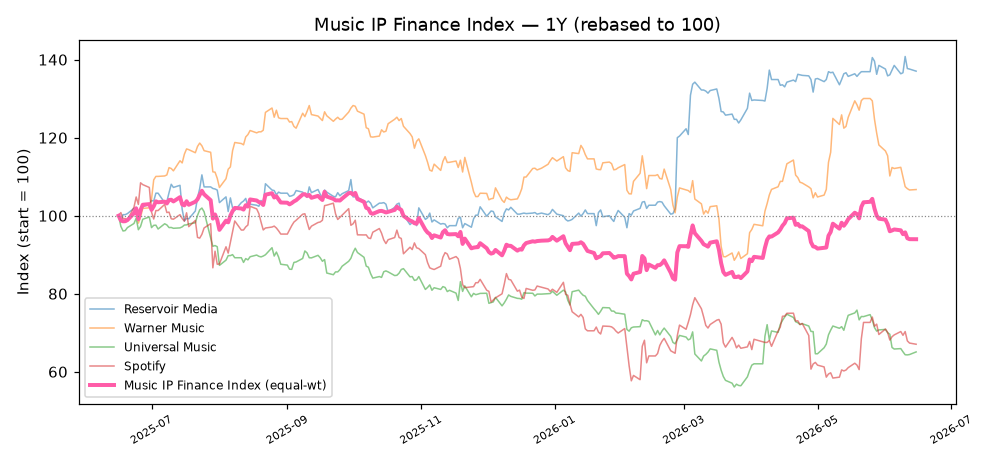
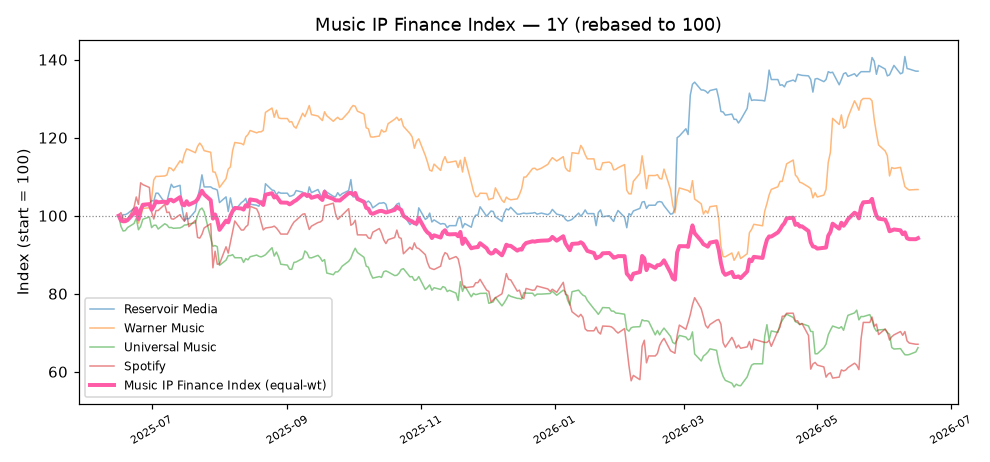
feat: 加上股市/研究雷達兩分頁導覽；移除空的新聞熱度圖與WIPO靜態卡，保留版權指數

diff --git a/docs/index.html b/docs/index.html
@@ -8,6 +8,12 @@
   * { box-sizing:border-box; }
   body { font-family:-apple-system,"PingFang TC","Microsoft JhengHei",sans-serif;
          margin:0; background:#0f1115; color:#e6e6e6; }
+  .topnav { display:flex; gap:6px; background:#0b0d12; padding:8px 16px;
+            border-bottom:1px solid #262b36; position:sticky; top:0; z-index:10; }
+  .topnav a { color:#9aa4b2; text-decoration:none; font-size:14px; font-weight:600;
+              padding:7px 16px; border-radius:8px; }
+  .topnav a:hover { background:#161922; color:#e6e6e6; }
+  .topnav a.active { background:#1f2e3a; color:#7fb5ff; }
   header { padding:24px 20px; background:#161922; border-bottom:1px solid #262b36; }
   header h1 { margin:0; font-size:22px; }
   header p { margin:6px 0 0; color:#9aa4b2; font-size:13px; }
@@ -70,9 +76,13 @@
 </style>
 </head>
 <body>
+<nav class="topnav">
+  <a href="https://elainechi-art.github.io/taiwan-stock-dashboard/">📈 股市儀表板</a>
+  <a class="active" href="https://elainechi-art.github.io/research-radar/">📡 研究雷達</a>
+</nav>
 <header>
   <h1>📡 研究雷達 · 台灣法律 / 智財 / 區塊鏈 / AI</h1>
-  <p>資料日期：2026-06-16　·　產生時間：2026-06-16 15:08　·　每日自動更新　·　🆕 = 近 7 天新資料</p>
+  <p>資料日期：2026-06-16　·　產生時間：2026-06-16 15:17　·　每日自動更新　·　🆕 = 近 7 天新資料</p>
 </header>
 <div class="wrap">
 
@@ -87,7 +97,7 @@
           <h2><span class="tag tw">台灣</span>台灣智財：著作權／商標／專利 <span class="desc">三大領域各自蒐集（判決・侵權・修法）</span></h2>
           
           
-          <div class="cols"><div class="col"><h3>© 著作權</h3><ul class="feed"><li><a href="https://news.google.com/rss/articles/CBMiU0FVX3lxTFBhTldwZjFkWHZDbFd1clRScWY5RHFYWC11eWRTZHhHTFJlUHhYR2xybnpCOXFiZzRmcnA3QkplSTd1dVJvNFVhNm14MWNlUFExNVNz?oc=5" target="_blank" rel="noopener">日男發布劇情解說影片涉侵權 遭法院判刑一年半 - 力報</a><div class="m"><span class="new">🆕 NEW</span><span class="date">2026-06-16</span><span class="src">力報</span></div></li><li><a href="https://news.google.com/rss/articles/CBMiSEFVX3lxTE5VU0Fjbkg3WVk0SFg1SWFSeFlaSkhBMGZXMFhobmdycm93eVdGTDJ5RE5SN2N4TmNtWVdsOWV1ZlcyeWhFRjJSNA?oc=5" target="_blank" rel="noopener">【北美智權報406期】Hailuo AI侵害迪士尼原創角色著作權？2026年Disney v. MiniMax案初步裁定| 2026 年 6 月 16 日 - 北美智權</a><div class="m"><span class="new">🆕 NEW</span><span class="date">2026-06-15</span><span class="src">北美智權</span></div></li><li><a href="https://news.google.com/rss/articles/CBMiS0FVX3lxTFBuS3I2UFFvb0lkR05nU1p6TTdIUTZQZkRNZ1FXdl9uTU1kb1kxRVo3WDdmOEZWUnBYVzNRb1NDaVhmYTAxem9WTnVVNA?oc=5" target="_blank" rel="noopener">人工智慧面臨「人工愚蠢」挑戰 版權侵權、假訊息、誤判層出不窮 - 樂聯網</a><div class="m"><span class="date">2026-06-05</span><span class="src">樂聯網</span></div></li><li><a href="https://news.google.com/rss/articles/CBMiakFVX3lxTE16MmNCMHpJQ0lja2pIeVVqd3ptM3EzeElRMXpicloxOE5LSU9jdzlvcVVRNlNxWTZTb0VYZTFPaXVXLXNpeTkwQ0RLQTNZejkwWjFKNmYxbVRrOHdjeEpQVDVRbW1od0N3ZlE?oc=5" target="_blank" rel="noopener">專利情報： 從我國唯一AI侵權之中央通訊社案- - 著作權法刑責之再檢討 - 科技產業資訊室</a><div class="m"><span class="date">2026-06-04</span><span class="src">科技產業資訊室</span></div></li><li><a href="https://news.google.com/rss/articles/CBMiowFBVV95cUxOcEJuemM2TWg4a3Uyb3dYYk55djRyR0t6MWE2bUs1NGpKQmZ0UzQ5YmRnMm40YmY2bElhcEVfSHgwOFE0S0J3eF93amhvSjRvQmZIN2g5d2VobXR5SmxCZzlXVFdja3lIUmVTSnNjM1JWMERzN3VBSm9xdWR1bWZIYWhGeEZWd0JBZV93YWR4WVp1TFZleE5qVkdxVmlUNWQ3YTln?oc=5" target="_blank" rel="noopener">CNN 控告 Perplexity 侵害著作權：1.7 萬篇報導逐字複製、繞過付費牆| 動區動趨-最具影響力的區塊鏈新聞媒體 - 動區動趨</a><div class="m"><span class="date">2026-05-29</span><span class="src">動區動趨</span></div></li><li><a href="https://news.google.com/rss/articles/CBMiS0FVX3lxTE5TNXl3ZjEyQWJJc3phZFZjNnRrbll5SmdBQjlfdE9iZ19hRmhHWVp3dElTYk1SMjdIQ1RxZlpVaE52OFloTnkzNWVrRQ?oc=5" target="_blank" rel="noopener">教會遭控侵權 單張圖片索賠上萬元 - 台灣教會公報新聞網</a><div class="m"><span class="date">2026-02-25</span><span class="src">台灣教會公報新聞網</span></div></li></ul></div><div class="col"><h3>™ 商標</h3><ul class="feed"><li><a href="https://news.google.com/rss/articles/CBMimwFBVV95cUxQMkkzNHRaak00MkhKaHpKQ1kxQW1aYTJ1MkN5T1VhdEJQcnJLMkpob0pkdXNZT1hCbWcwcjJ6WldaZkFqaERZMnMyVG5UWEUtQ0w5Q19UV0pjdm9fTWhyVjZKRHQxY3FkbWlCenp4UHQ3amNnTlEwX3F6b1VFOVRhZm14UnhLQ3ZuOGxCMDhmUWgtNDUzUFVHWGpUYw?oc=5" target="_blank" rel="noopener">真金也可能侵權 刑事局查獲725件仿冒名牌金飾 - 新住民全球新聞網</a><div class="m"><span class="new">🆕 NEW</span><span class="date">2026-06-16</span><span class="src">新住民全球新聞網</span></div></li><li><a href="https://news.google.com/rss/articles/CBMifkFVX3lxTE9xdE43VGNCc19PR21ncEJNc2V5NXJGRC1mNkpmMmxmWHB5VzdkNmxFUktfcmYxMWNOU2l5N3hHejhXYnh4dUNYNkl2ZkxWQjlSZ3RmREhwdUQwcnBlcHR1cVdYSzdFMzZoSk5JVmUwU2tCeE5DSFIxaTBFSEJZUdIBZ0FVX3lxTE9YUVhSTjM2bEplUFdnc0NJaE9tRk5qMFNMRWhKTDdrYXp0QVJ2WW1mQlRIMUtDbF9VUnRVeDRFWUpXbEpxYTVDay1BQmViNXpHWmFJM1VEVE5uRWR6YzhVdUVQQ0phNVE?oc=5" target="_blank" rel="noopener">商標霸凌？「遇見小麵」告小店侵權 反遭抵制、股價暴跌 - 世界新聞網</a><div class="m"><span class="new">🆕 NEW</span><span class="date">2026-06-16</span><span class="src">世界新聞網</span></div></li><li><a href="https://news.google.com/rss/articles/CBMiX0FVX3lxTE9JbldNSVZkWkRXM3NNYVl1Qjk5MjhOMnY5dXlCRUF5eHU0N182OWh4V2lpRng0cDV1RTYwNHZGa3VVTnM1eGNQUDFIS3hLbUJ1WjVPZzA5WkFBdzkyUk1j?oc=5" target="_blank" rel="noopener">陸連鎖品牌「遇見小面」訴夫妻店商標侵權 引爭議 - 大紀元時報 香港</a><div class="m"><span class="new">🆕 NEW</span><span class="date">2026-06-16</span><span class="src">大紀元時報 香港</span></div></li><li><a href="https://news.google.com/rss/articles/CBMiygNBVV95cUxQdndIb3ZPdVV0cWNYUm9JOTZlUngyMEFFeFhrTmlnRWVzN0pEdWRDV3VORFNKcnVlVHdfbkhvSHVHUkdDQUIwRDJBbTZhUnBiQVhpS2c0VjJxWkpVZU9GWVNIbjJ0azVrbEZQS1NXTUl1RUJtSnNjeUJ6ZmJCcUJSTE5YTHl2dFkxQjRjcnpMLUxFQmtqYnBlRkRINk9wU2ZoeUc2UTJkcVh5MEhKdldvVGc1UENDSnZlY2tTa2VHQTZNbnROWEFkMWVBUC1udVRzUDJUdkZnTC1pUEhzWno0TDNxdVBETVVSZTQzRHZDbWhUQUlGWmxsYTRHM2VObDBzak9ZSDdVeUhTOG85VWJGanhRWS1ZTFQ2QjZRc0V2UEF3bkJTeGJMRzJMaXlldzJYa2V3X2h5RDhsczBXSXNEUHVYM0owdkVGbVh1bEVvTUhzN3Y4cG5ydm8wdVY5T2lHNzJibUhYQlQ0NU9SWTlteS1NcVliV1dVWU5TLW1hcFNIYVpLNFd1M2I1cEJsZU81Wlp1QUljTkFGc1d6X2NoYzh2bEszVkdlLWkxRk1nek0xR3RmOWJXdnpVenVYOF9lOEdyc29RYWRuUQ?oc=5" target="_blank" rel="noopener">小店｢渝見小麵｣老闆哭訴被指侵權遭索賠近萬 遇見小麵創始人道歉 - 香港01</a><div class="m"><span class="new">🆕 NEW</span><span class="date">2026-06-16</span><span class="src">香港01</span></div></li><li><a href="https://news.google.com/rss/articles/CBMiYEFVX3lxTFA5R2RJcUNJVnVVdEpITWM1dmdTdWx4MWJoZ3Ffb3QtQzNmN211dVJIdzRhakVQYl9lRnNUdWJTR0JmbVZKNGE4Q21ELWJMcnpRV1lqQ0RPWE1SNVpDc0lBWtIBYEFVX3lxTFA5R2RJcUNJVnVVdEpITWM1dmdTdWx4MWJoZ3Ffb3QtQzNmN211dVJIdzRhakVQYl9lRnNUdWJTR0JmbVZKNGE4Q21ELWJMcnpRV1lqQ0RPWE1SNVpDc0lBWg?oc=5" target="_blank" rel="noopener">商標搶先機／女星自創品牌撞名日本大廠 被迫改名重新出發 - 鏡週刊Mirror Media</a><div class="m"><span class="new">🆕 NEW</span><span class="date">2026-06-15</span><span class="src">鏡週刊Mirror Media</span></div></li><li><a href="https://news.google.com/rss/articles/CBMiXEFVX3lxTE9jS05CUDRGUTFCWFg0X1RjenliUVRoWGJaakIyQmIzOU5IMmhlSmNnVlhNVTJ3RERsR3ZUZVZnVnpLQXBmTG44QllGN3FfUHRIRjk0ci1xcVVGZmUx0gFcQVVfeXFMT2NLTkJQNEZRMUJYWDRfVGN6eWJRVGhYYlpqQjJCYjM5TkgyaGVKY2dWWE1VMndERGxHdlRlVmdWektBcGZMbjhCWUY3cV9QdEhGOTRyLXFxVUZmZTE?oc=5" target="_blank" rel="noopener">商標搶先機／獨家！直播天后開告撈金 闆妹靠註冊商標賺626萬 - 鏡新聞</a><div class="m"><span class="new">🆕 NEW</span><span class="date">2026-06-15</span><span class="src">鏡新聞</span></div></li></ul></div><div class="col"><h3>⚙ 專利</h3><ul class="feed"><li><a href="https://news.google.com/rss/articles/CBMiXEFVX3lxTE4zRXZ1RndYejl4RkY5MlhGT1huRzllOXVKV1FoYzZCZWFZQzhzZ0cwdzhkTkx4cDBMVlJ2cTFYcWhqRzc3YXhkbGtWUWVDelJVSXFfdTVQekIyRlQz?oc=5" target="_blank" rel="noopener">外媒揭台積電捲入專利侵權訴訟 官員坦言是遇到「專利蟑螂」 - 太報 TaiSounds</a><div class="m"><span class="new">🆕 NEW</span><span class="date">2026-06-16</span><span class="src">太報 TaiSounds</span></div></li><li><a href="https://news.google.com/rss/articles/CBMiXkFVX3lxTE03NEFSVW1iaE5xWFF1bWNmOEhRZXNxalYwWVdyZmYzX2VBUThRbHFqTG16ckdTNUlkeUt4TjBNQ0FUSzE2RXRNUkdmUmpmUjQ5bnluVUJ2RjNENXVPQnc?oc=5" target="_blank" rel="noopener">台積電涉侵權訴訟智慧局長：提告者研判為專利蟑螂| 產經 - 中央社 CNA</a><div class="m"><span class="new">🆕 NEW</span><span class="date">2026-06-16</span><span class="src">中央社 CNA</span></div></li><li><a href="https://news.google.com/rss/articles/CBMiV0FVX3lxTE1obkV6TGprYlJSclFsdEF0aThpRXB5MFZha0hySkdINWVBRlJfMDV2cjdTTXpEdEFTcUdJZG1hYmY1Ympzd0Z5emZVY0Q2QjFfVDJtVElyQQ?oc=5" target="_blank" rel="noopener">台積電遭專利蟑螂提告 智慧局：對本案有信心 - rti.org.tw</a><div class="m"><span class="new">🆕 NEW</span><span class="date">2026-06-16</span><span class="src">rti.org.tw</span></div></li><li><a href="https://news.google.com/rss/articles/CBMiakFVX3lxTE1HS0FZMEZSMUlVc1JrN0ZzQVhBd3o3cEpYUWFER0tOZVEtQUt4WkVlZGJsaGZmekgtMXVRVGlFSV9LalBraTdOcUdYR2c5RWZKcl9zT0pOUzVwdFF1c1lJOFBMY0tldjl0Ync?oc=5" target="_blank" rel="noopener">英國上訴法院認定諾基亞提供的視訊專利授權合約，包含強迫華碩交互授權條款，違反FRAND要求 - 科技產業資訊室</a><div class="m"><span class="new">🆕 NEW</span><span class="date">2026-06-16</span><span class="src">科技產業資訊室</span></div></li><li><a href="https://news.google.com/rss/articles/CBMiZEFVX3lxTE5zcGNrWTVRS1c3RXBmd3dXa1p6REtWenFRZ00wOUdUYzdhNlMzQXFhek5FdHVheWFzaFlhOFlQYmxZLTZQV1FzSUFFaF9GaElOaW5TOEh6Q0FEOUtkT2JoVTRHNUzSAWRBVV95cUxOc3Bja1k1UUtXN0VwZnd3V2taekRLVnpxUWdNMDlHVGM3YTZTM0FxYXpORXR1YXlhc2hZYThZUGJsWS02UFdRc0lBRWhfRmhJTmluUzhIekNBRDlLZE9iaFU0RzVM?oc=5" target="_blank" rel="noopener">專利蟑螂找上護國神山！智慧局長：靶心再小 台積也能精準打擊 - 自由財經</a><div class="m"><span class="new">🆕 NEW</span><span class="date">2026-06-16</span><span class="src">自由財經</span></div></li><li><a href="https://news.google.com/rss/articles/CBMiW0FVX3lxTFBGMmJVdXlTM191b2pxR0ltUDN5RzJFQW5SSld6eW56RG9tU2dHanVnRUl6Vkl6TjE2M2JJci1WUEx0WTZMYVV6bWIyVGpOcEJhdUJ2T3pRWGNyY2c?oc=5" target="_blank" rel="noopener">捲入美國專利侵權風波台積電：營運遵守法規| 科技 - 非凡新聞台</a><div class="m"><span class="new">🆕 NEW</span><span class="date">2026-06-11</span><span class="src">非凡新聞台</span></div></li></ul></div></div>
+          <div class="cols"><div class="col"><h3>© 著作權</h3><ul class="feed"><li><a href="https://news.google.com/rss/articles/CBMiU0FVX3lxTFBhTldwZjFkWHZDbFd1clRScWY5RHFYWC11eWRTZHhHTFJlUHhYR2xybnpCOXFiZzRmcnA3QkplSTd1dVJvNFVhNm14MWNlUFExNVNz?oc=5" target="_blank" rel="noopener">日男發布劇情解說影片涉侵權 遭法院判刑一年半 - 力報</a><div class="m"><span class="new">🆕 NEW</span><span class="date">2026-06-16</span><span class="src">力報</span></div></li><li><a href="https://news.google.com/rss/articles/CBMiSEFVX3lxTE5VU0Fjbkg3WVk0SFg1SWFSeFlaSkhBMGZXMFhobmdycm93eVdGTDJ5RE5SN2N4TmNtWVdsOWV1ZlcyeWhFRjJSNA?oc=5" target="_blank" rel="noopener">【北美智權報406期】Hailuo AI侵害迪士尼原創角色著作權？2026年Disney v. MiniMax案初步裁定| 2026 年 6 月 16 日 - 北美智權</a><div class="m"><span class="new">🆕 NEW</span><span class="date">2026-06-15</span><span class="src">北美智權</span></div></li><li><a href="https://news.google.com/rss/articles/CBMiS0FVX3lxTFBuS3I2UFFvb0lkR05nU1p6TTdIUTZQZkRNZ1FXdl9uTU1kb1kxRVo3WDdmOEZWUnBYVzNRb1NDaVhmYTAxem9WTnVVNA?oc=5" target="_blank" rel="noopener">人工智慧面臨「人工愚蠢」挑戰 版權侵權、假訊息、誤判層出不窮 - 樂聯網</a><div class="m"><span class="date">2026-06-05</span><span class="src">樂聯網</span></div></li><li><a href="https://news.google.com/rss/articles/CBMiakFVX3lxTE16MmNCMHpJQ0lja2pIeVVqd3ptM3EzeElRMXpicloxOE5LSU9jdzlvcVVRNlNxWTZTb0VYZTFPaXVXLXNpeTkwQ0RLQTNZejkwWjFKNmYxbVRrOHdjeEpQVDVRbW1od0N3ZlE?oc=5" target="_blank" rel="noopener">專利情報： 從我國唯一AI侵權之中央通訊社案- - 著作權法刑責之再檢討 - 科技產業資訊室</a><div class="m"><span class="date">2026-06-04</span><span class="src">科技產業資訊室</span></div></li><li><a href="https://news.google.com/rss/articles/CBMiowFBVV95cUxOcEJuemM2TWg4a3Uyb3dYYk55djRyR0t6MWE2bUs1NGpKQmZ0UzQ5YmRnMm40YmY2bElhcEVfSHgwOFE0S0J3eF93amhvSjRvQmZIN2g5d2VobXR5SmxCZzlXVFdja3lIUmVTSnNjM1JWMERzN3VBSm9xdWR1bWZIYWhGeEZWd0JBZV93YWR4WVp1TFZleE5qVkdxVmlUNWQ3YTln?oc=5" target="_blank" rel="noopener">CNN 控告 Perplexity 侵害著作權：1.7 萬篇報導逐字複製、繞過付費牆| 動區動趨-最具影響力的區塊鏈新聞媒體 - 動區動趨</a><div class="m"><span class="date">2026-05-29</span><span class="src">動區動趨</span></div></li><li><a href="https://news.google.com/rss/articles/CBMiS0FVX3lxTE5TNXl3ZjEyQWJJc3phZFZjNnRrbll5SmdBQjlfdE9iZ19hRmhHWVp3dElTYk1SMjdIQ1RxZlpVaE52OFloTnkzNWVrRQ?oc=5" target="_blank" rel="noopener">教會遭控侵權 單張圖片索賠上萬元 - 台灣教會公報新聞網</a><div class="m"><span class="date">2026-02-25</span><span class="src">台灣教會公報新聞網</span></div></li></ul></div><div class="col"><h3>™ 商標</h3><ul class="feed"><li><a href="https://news.google.com/rss/articles/CBMimwFBVV95cUxQMkkzNHRaak00MkhKaHpKQ1kxQW1aYTJ1MkN5T1VhdEJQcnJLMkpob0pkdXNZT1hCbWcwcjJ6WldaZkFqaERZMnMyVG5UWEUtQ0w5Q19UV0pjdm9fTWhyVjZKRHQxY3FkbWlCenp4UHQ3amNnTlEwX3F6b1VFOVRhZm14UnhLQ3ZuOGxCMDhmUWgtNDUzUFVHWGpUYw?oc=5" target="_blank" rel="noopener">真金也可能侵權 刑事局查獲725件仿冒名牌金飾 - 新住民全球新聞網</a><div class="m"><span class="new">🆕 NEW</span><span class="date">2026-06-16</span><span class="src">新住民全球新聞網</span></div></li><li><a href="https://news.google.com/rss/articles/CBMifkFVX3lxTE9xdE43VGNCc19PR21ncEJNc2V5NXJGRC1mNkpmMmxmWHB5VzdkNmxFUktfcmYxMWNOU2l5N3hHejhXYnh4dUNYNkl2ZkxWQjlSZ3RmREhwdUQwcnBlcHR1cVdYSzdFMzZoSk5JVmUwU2tCeE5DSFIxaTBFSEJZUdIBZ0FVX3lxTE9YUVhSTjM2bEplUFdnc0NJaE9tRk5qMFNMRWhKTDdrYXp0QVJ2WW1mQlRIMUtDbF9VUnRVeDRFWUpXbEpxYTVDay1BQmViNXpHWmFJM1VEVE5uRWR6YzhVdUVQQ0phNVE?oc=5" target="_blank" rel="noopener">商標霸凌？「遇見小麵」告小店侵權 反遭抵制、股價暴跌 - 世界新聞網</a><div class="m"><span class="new">🆕 NEW</span><span class="date">2026-06-16</span><span class="src">世界新聞網</span></div></li><li><a href="https://news.google.com/rss/articles/CBMiX0FVX3lxTE9JbldNSVZkWkRXM3NNYVl1Qjk5MjhOMnY5dXlCRUF5eHU0N182OWh4V2lpRng0cDV1RTYwNHZGa3VVTnM1eGNQUDFIS3hLbUJ1WjVPZzA5WkFBdzkyUk1j?oc=5" target="_blank" rel="noopener">陸連鎖品牌「遇見小面」訴夫妻店商標侵權 引爭議 - 大紀元時報 香港</a><div class="m"><span class="new">🆕 NEW</span><span class="date">2026-06-16</span><span class="src">大紀元時報 香港</span></div></li><li><a href="https://news.google.com/rss/articles/CBMiygNBVV95cUxQdndIb3ZPdVV0cWNYUm9JOTZlUngyMEFFeFhrTmlnRWVzN0pEdWRDV3VORFNKcnVlVHdfbkhvSHVHUkdDQUIwRDJBbTZhUnBiQVhpS2c0VjJxWkpVZU9GWVNIbjJ0azVrbEZQS1NXTUl1RUJtSnNjeUJ6ZmJCcUJSTE5YTHl2dFkxQjRjcnpMLUxFQmtqYnBlRkRINk9wU2ZoeUc2UTJkcVh5MEhKdldvVGc1UENDSnZlY2tTa2VHQTZNbnROWEFkMWVBUC1udVRzUDJUdkZnTC1pUEhzWno0TDNxdVBETVVSZTQzRHZDbWhUQUlGWmxsYTRHM2VObDBzak9ZSDdVeUhTOG85VWJGanhRWS1ZTFQ2QjZRc0V2UEF3bkJTeGJMRzJMaXlldzJYa2V3X2h5RDhsczBXSXNEUHVYM0owdkVGbVh1bEVvTUhzN3Y4cG5ydm8wdVY5T2lHNzJibUhYQlQ0NU9SWTlteS1NcVliV1dVWU5TLW1hcFNIYVpLNFd1M2I1cEJsZU81Wlp1QUljTkFGc1d6X2NoYzh2bEszVkdlLWkxRk1nek0xR3RmOWJXdnpVenVYOF9lOEdyc29RYWRuUQ?oc=5" target="_blank" rel="noopener">小店｢渝見小麵｣老闆哭訴被指侵權遭索賠近萬 遇見小麵創始人道歉 - 香港01</a><div class="m"><span class="new">🆕 NEW</span><span class="date">2026-06-16</span><span class="src">香港01</span></div></li><li><a href="https://news.google.com/rss/articles/CBMiYEFVX3lxTFA5R2RJcUNJVnVVdEpITWM1dmdTdWx4MWJoZ3Ffb3QtQzNmN211dVJIdzRhakVQYl9lRnNUdWJTR0JmbVZKNGE4Q21ELWJMcnpRV1lqQ0RPWE1SNVpDc0lBWtIBYEFVX3lxTFA5R2RJcUNJVnVVdEpITWM1dmdTdWx4MWJoZ3Ffb3QtQzNmN211dVJIdzRhakVQYl9lRnNUdWJTR0JmbVZKNGE4Q21ELWJMcnpRV1lqQ0RPWE1SNVpDc0lBWg?oc=5" target="_blank" rel="noopener">商標搶先機／女星自創品牌撞名日本大廠 被迫改名重新出發 - 鏡週刊Mirror Media</a><div class="m"><span class="new">🆕 NEW</span><span class="date">2026-06-15</span><span class="src">鏡週刊Mirror Media</span></div></li><li><a href="https://news.google.com/rss/articles/CBMiXEFVX3lxTE9jS05CUDRGUTFCWFg0X1RjenliUVRoWGJaakIyQmIzOU5IMmhlSmNnVlhNVTJ3RERsR3ZUZVZnVnpLQXBmTG44QllGN3FfUHRIRjk0ci1xcVVGZmUx0gFcQVVfeXFMT2NLTkJQNEZRMUJYWDRfVGN6eWJRVGhYYlpqQjJCYjM5TkgyaGVKY2dWWE1VMndERGxHdlRlVmdWektBcGZMbjhCWUY3cV9QdEhGOTRyLXFxVUZmZTE?oc=5" target="_blank" rel="noopener">商標搶先機／獨家！直播天后開告撈金 闆妹靠註冊商標賺626萬 - 鏡新聞</a><div class="m"><span class="new">🆕 NEW</span><span class="date">2026-06-15</span><span class="src">鏡新聞</span></div></li></ul></div><div class="col"><h3>⚙ 專利</h3><ul class="feed"><li><a href="https://news.google.com/rss/articles/CBMiXEFVX3lxTE4zRXZ1RndYejl4RkY5MlhGT1huRzllOXVKV1FoYzZCZWFZQzhzZ0cwdzhkTkx4cDBMVlJ2cTFYcWhqRzc3YXhkbGtWUWVDelJVSXFfdTVQekIyRlQz?oc=5" target="_blank" rel="noopener">外媒揭台積電捲入專利侵權訴訟 官員坦言是遇到「專利蟑螂」 - 太報 TaiSounds</a><div class="m"><span class="new">🆕 NEW</span><span class="date">2026-06-16</span><span class="src">太報 TaiSounds</span></div></li><li><a href="https://news.google.com/rss/articles/CBMiXkFVX3lxTE03NEFSVW1iaE5xWFF1bWNmOEhRZXNxalYwWVdyZmYzX2VBUThRbHFqTG16ckdTNUlkeUt4TjBNQ0FUSzE2RXRNUkdmUmpmUjQ5bnluVUJ2RjNENXVPQnc?oc=5" target="_blank" rel="noopener">台積電涉侵權訴訟智慧局長：提告者研判為專利蟑螂| 產經 - 中央社 CNA</a><div class="m"><span class="new">🆕 NEW</span><span class="date">2026-06-16</span><span class="src">中央社 CNA</span></div></li><li><a href="https://news.google.com/rss/articles/CBMiakFVX3lxTE1HS0FZMEZSMUlVc1JrN0ZzQVhBd3o3cEpYUWFER0tOZVEtQUt4WkVlZGJsaGZmekgtMXVRVGlFSV9LalBraTdOcUdYR2c5RWZKcl9zT0pOUzVwdFF1c1lJOFBMY0tldjl0Ync?oc=5" target="_blank" rel="noopener">英國上訴法院認定諾基亞提供的視訊專利授權合約，包含強迫華碩交互授權條款，違反FRAND要求 - 科技產業資訊室</a><div class="m"><span class="new">🆕 NEW</span><span class="date">2026-06-16</span><span class="src">科技產業資訊室</span></div></li><li><a href="https://news.google.com/rss/articles/CBMiV0FVX3lxTE1obkV6TGprYlJSclFsdEF0aThpRXB5MFZha0hySkdINWVBRlJfMDV2cjdTTXpEdEFTcUdJZG1hYmY1Ympzd0Z5emZVY0Q2QjFfVDJtVElyQQ?oc=5" target="_blank" rel="noopener">台積電遭專利蟑螂提告 智慧局：對本案有信心 - rti.org.tw</a><div class="m"><span class="new">🆕 NEW</span><span class="date">2026-06-16</span><span class="src">rti.org.tw</span></div></li><li><a href="https://news.google.com/rss/articles/CBMiZEFVX3lxTE5zcGNrWTVRS1c3RXBmd3dXa1p6REtWenFRZ00wOUdUYzdhNlMzQXFhek5FdHVheWFzaFlhOFlQYmxZLTZQV1FzSUFFaF9GaElOaW5TOEh6Q0FEOUtkT2JoVTRHNUzSAWRBVV95cUxOc3Bja1k1UUtXN0VwZnd3V2taekRLVnpxUWdNMDlHVGM3YTZTM0FxYXpORXR1YXlhc2hZYThZUGJsWS02UFdRc0lBRWhfRmhJTmluUzhIekNBRDlLZE9iaFU0RzVM?oc=5" target="_blank" rel="noopener">專利蟑螂找上護國神山！智慧局長：靶心再小 台積也能精準打擊 - 自由財經</a><div class="m"><span class="new">🆕 NEW</span><span class="date">2026-06-16</span><span class="src">自由財經</span></div></li><li><a href="https://news.google.com/rss/articles/CBMiW0FVX3lxTFBGMmJVdXlTM191b2pxR0ltUDN5RzJFQW5SSld6eW56RG9tU2dHanVnRUl6Vkl6TjE2M2JJci1WUEx0WTZMYVV6bWIyVGpOcEJhdUJ2T3pRWGNyY2c?oc=5" target="_blank" rel="noopener">捲入美國專利侵權風波台積電：營運遵守法規| 科技 - 非凡新聞台</a><div class="m"><span class="new">🆕 NEW</span><span class="date">2026-06-11</span><span class="src">非凡新聞台</span></div></li></ul></div></div>
         </section>
 
         <section class="topic">
@@ -102,17 +112,13 @@
           
           
       <div class="charts">
-        <h3>📈 音樂 IP 金融指標 <span class="src">（WIPO 報告風格）</span></h3>
+        <h3>📈 音樂 IP 金融指數 <span class="src">（Reservoir／Warner／Universal／Spotify，rebased 100）</span></h3>
         <div class="cgrid">
-          <div><img src="assets/music_index.png" alt="index" loading="lazy">
-            <table class="ctab"><tr><th>標的</th><th>價格</th><th>近1年</th></tr><tr><td>Reservoir Media<span class="src"> RSVR</span></td><td>10.21</td><td class="up">+37.0%</td></tr><tr><td>Warner Music<span class="src"> WMG</span></td><td>28.49</td><td class="up">+6.7%</td></tr><tr><td>Universal Music<span class="src"> UMG.AS</span></td><td>17.94</td><td class="down">-34.9%</td></tr><tr><td>Spotify<span class="src"> SPOT</span></td><td>479.85</td><td class="down">-32.9%</td></tr><tr><td>音樂 IP 金融指數<span class="src"> INDEX</span></td><td>—</td><td class="down">-6.0%</td></tr></table></div>
-          <div><img src="assets/music_volume.png" alt="volume" loading="lazy">
-            <div class="ref"><b>WIPO 官方統計參考</b><ul><li>「音樂版權證券化」媒體報導：2014 年 56 篇 → 2024 年 450 篇</li><li>美國著作權局：音樂版權移轉至 2020 年增加 65%</li><li>音樂版權作為融資擔保品：自 2010 年近乎翻倍</li></ul>
-            <a href="https://www.wipo.int/publications/en/details.jsp?id=4842" target="_blank" rel="noopener">WIPO Economic Research WP No. 99 (2026)</a></div>
-          </div>
+          <div><img src="assets/music_index.png" alt="index" loading="lazy"></div>
+          <div><table class="ctab"><tr><th>標的</th><th>價格</th><th>近1年</th></tr><tr><td>Reservoir Media<span class="src"> RSVR</span></td><td>10.21</td><td class="up">+37.0%</td></tr><tr><td>Warner Music<span class="src"> WMG</span></td><td>28.49</td><td class="up">+6.7%</td></tr><tr><td>Universal Music<span class="src"> UMG.AS</span></td><td>18.25</td><td class="down">-33.8%</td></tr><tr><td>Spotify<span class="src"> SPOT</span></td><td>479.85</td><td class="down">-32.9%</td></tr><tr><td>音樂 IP 金融指數<span class="src"> INDEX</span></td><td>—</td><td class="down">-5.8%</td></tr></table></div>
         </div>
       </div>
-          <div class="cols"><div class="col"><h3>📰 新聞（中・英）</h3><ul class="feed"><li><a href="https://news.google.com/rss/articles/CBMiqwFBVV95cUxOempVQWt4a0lWc3U3NGIwNkFPbTQyMUJKNVBsOE1BTm10OTgtTm80VW9ITWROa2Rwal9LVWc5MHpORU1WRVVqY20xd2twUW1KNnRkdTExcnRYbElrMXRjdExrODN5MG52TC1EM2J1U283RWJYdjFtcmhFSlVsMlJzVXYyV09xaFRMNmV1X2lwWkxubERGQ0p2MzlZSmVadHN2eWxHRFQ4U1RYX1XSAbIBQVVfeXFMTzJXR21BakF6c1g4aktQVEdSRm5uSmVPRG5hUElvYzZfRFdndDNQcXN4OFF3bnJyR0tmQVI5VGxxWUx4UENCYW9DTmwtZ1h1RXJ3aWpiTG9nSlpSa29SekV0eWV6cUFkTTVJNWRJS0tJbV9uN2FFb0c3NnFzZWh6QndPaHRrZDZvRUR5anB0LVVFeTdXYk9yMVhfaHJvX3huM2FWdVd5SlBFd0tFbHl1Ml9YUQ?oc=5" target="_blank" rel="noopener">Can an AI platform hold a music copyright? - BusinessLine</a><div class="m"><span class="new">🆕 NEW</span><span class="date">2026-06-16</span><span class="src">BusinessLine</span></div></li><li><a href="https://news.google.com/rss/articles/CBMijgFBVV95cUxOU3l1U3FQOXJkdWpBRXhwYTRxNmNid1o5TWlOYnpMUmRMdVcwakR1T2dHVUR0MVJyNWVUQ2lhSFB5RHdtQUxNemF5empJcG5xQ0h0amRIdWVhZnlUSC0taElwZ0ozNHEtbEJzcmYxVjVCT2N4NVhxSGtmd2RhOF9qWUoyWUtHSkFwSUc5Z0FB?oc=5" target="_blank" rel="noopener">RBW Launches 30 Billion Won K-Pop Music IP Project - 조선일보</a><div class="m"><span class="new">🆕 NEW</span><span class="date">2026-06-15</span><span class="src">조선일보</span></div></li><li><a href="https://news.google.com/rss/articles/CBMickFVX3lxTE0yLTh5YlR5MVJILUdFZ29MY2d5NnJ3R1B1R1B3Q3NtZ1A1R08ta1ZfMEV5bWNZR3oxVkZtQ1paMTc5RC1uaVpUdnhYeGNWWGZBU3dpSlNwVXpOdld6U1Nfeko3a2RvRjJGeU1FLVZueDBRUQ?oc=5" target="_blank" rel="noopener">AI 作曲無版權？日本 JASRAC 裁定純 AI 音樂屬公共領域 - unwire PRO</a><div class="m"><span class="new">🆕 NEW</span><span class="date">2026-06-15</span><span class="src">unwire PRO</span></div></li><li><a href="https://news.google.com/rss/articles/CBMidEFVX3lxTE1hSEZoVEVwaXdQeXltTEx0a0I4RG9ncFo5ZjVuSXJ1c2VFMmI5WHNpRWdzNW5rVzhFUzVVRG1xa05TNG5MV0dLcjdaLWxXdzBtUFhmS1JlT3BPS05BN3dpZWtNZlVidVUzRFNLRmpzTHZPTWFF?oc=5" target="_blank" rel="noopener">AI生成音樂享有著作權保障嗎？日本音樂著作權協會：不行 - LINE TODAY</a><div class="m"><span class="new">🆕 NEW</span><span class="date">2026-06-13</span><span class="src">LINE TODAY</span></div></li><li><a href="https://news.google.com/rss/articles/CBMitAFBVV95cUxPc0NaT0JqSmJnWVRFOGt5ZWFlTXg5YjlUVnRHdEtiQ2tTbmpFQTJoWWI1Ulo5ZmJWeGU0SEF3STR3UUI1WVdEbU9HUHBpSlJKZlAyVmljOUJDMHlqTGRsNnRyclYzQkI2WE9ZRmtTNlduVGpVRWtuQ1JNNGdKYXNJN0ZWeVpKemZsdWp4VjhDbmdleUstNGFlVHlYX1BWQjNSSnJKMFZ5dGxST2Z0VXp5QjRRUV8?oc=5" target="_blank" rel="noopener">Blueface&#x27;s Music Royalties Seized to Pay Soulja Boy&#x27;s Baby Mama $123,000 After Defamation Judgment - Complex</a><div class="m"><span class="new">🆕 NEW</span><span class="date">2026-06-12</span><span class="src">Complex</span></div></li><li><a href="https://news.google.com/rss/articles/CBMisgFBVV95cUxNSmo1cWhINzVvYmd0VUFrSmdGUl9JQl9FaGV1V3dZWEJFUDhzQkhONnR0UktJZGN6NXNrNHh4eHdoVGtwaVAtMTJhOEEtamV6M01qeGEwVFZXWW5xdUhoZ2RtR1dGR1lha0hSamxLMzZDM05UeWhNZGUyZnV4QWNBSEdZSGM5SkxWZkVlcmh4RURCYXZkRTJQN3hkbEU3VldhUHEzVFk1X3RTYWxoQ3FuSm1R?oc=5" target="_blank" rel="noopener">Blueface’s Music Royalties Redirected To Soulja Boy’s Ex Over Defamation Judgment - Hip-Hop Wired</a><div class="m"><span class="new">🆕 NEW</span><span class="date">2026-06-12</span><span class="src">Hip-Hop Wired</span></div></li></ul></div><div class="col"><h3>📚 學術論文</h3><ul class="feed"><li><a href="https://doi.org/10.29121/shodhkosh.v7.i2.2026.7846" target="_blank" rel="noopener">FOLK MUSIC VS DIGITAL PRODUCTION: THE TRANSITION OF INTELLECTUAL PROPERTY</a><div class="m"><span class="date">2026-06-01</span><span class="src">Semantic Scholar · S. Reddy, Chingireddy Sony · ShodhKosh Journal of Visual and Performing Arts</span></div><p class="sum">This paper explores how the progress of music from traditional folk art passed down orally to music shared digitally or generated by algorithms has fundamentally altered how the world views Intellectual Property (IP). Wh…</p></li><li><a href="https://doi.org/10.31926/but.pa.2024.17.66.3.6" target="_blank" rel="noopener">International and national legal aspects of intellectual property rights in music</a><div class="m"><span class="date">2025-01-31</span><span class="src">Semantic Scholar · Ionut-Sabin Bogdan · Bulletin of the Transilvania University of Brașov. Series VIII, Performing arts</span></div><p class="sum">The legal protection of authors&#x27; rights for musical works appeared in an incipient form as early as the 18th century, in the form of the transfer of copyright for economic purposes through the direct sale of a manuscript…</p></li><li><a href="https://doi.org/10.47772/ijriss.2025.907000414" target="_blank" rel="noopener">The Legal Certainty of Copyright Royalties Management for Songs and Music in Commercial Venues from the Perspective of Legal Fiction Theory</a><div class="m"><span class="date">2025</span><span class="src">Semantic Scholar · Moh. Ali, Galuh Puspaningrum, Qurrotul Umniyah · International journal of research and innovation in social science</span></div><p class="sum">Nowadays, technological advancement has many benefits and has given rapid changes to society. Regulations regarding the management of copyright royalties for songs in commercial places are an important aspect in the prot…</p></li><li><a href="https://doi.org/10.71250/rlr.v2i1.30" target="_blank" rel="noopener">INTELLECTUAL PROPERTY RIGHTS PROTECTION FOR ACTORS IN THE CREATIVE ECONOMY BASED ON INTELLECTUAL PROPERTY RIGHTS LAW NUMBER 28 OF 2014 CONCERNING COPYRIGHT</a><div class="m"><span class="date">2024-04-29</span><span class="src">Semantic Scholar · Joice Soraya, Muhammad Ansy Althafzufar · LAW REVIEW</span></div><p class="sum">Intellectual property rights (IPR) are rights that are born as a result of a person&#x27;s intellectual labor; hence, IPR is a legal structure of intellectual property protection as a result of the work performed by the creat…</p></li><li><a href="https://doi.org/10.52403/ijrr.20220450" target="_blank" rel="noopener">Juridical Reviews of Users of Song Copyright Works are Associated with Government Regulation Number 56 of 2021 Regarding the Management of Song or Music Copyright Royalties</a><div class="m"><span class="date">2022-05-05</span><span class="src">Semantic Scholar · A. Sunarto, Bohal Sijabat · International journal of research and review</span></div><p class="sum">Intellectual property rights (IPR) are rights that arise because of the results of someone&#x27;s intellectual creativity, provided that they must be in real form, creativity, so that they cannot be just ideas or concepts, wh…</p></li></ul></div><div class="col"><h3>⚖️ 美國判決</h3><ul class="feed"><li><a href="https://www.courtlistener.com/opinion/10814782/cox-communications-inc-v-sony-music-entertainment/" target="_blank" rel="noopener">Cox Communications, Inc. v. Sony Music Entertainment</a><div class="m"><span class="date">2026-03-25</span><span class="src">Supreme Court of the United States</span></div><p class="sum">(Slip Opinion) OCTOBER TERM, 2025 1 Syllabus NOTE: Where it is feasible, a syllabus (headnote) will be released, as is being done in connection with this case, at the time the opinion is issued. The syllabus constitutes…</p></li><li><a href="https://www.courtlistener.com/opinion/10600095/warner-chappell-music-inc-v-nealy/" target="_blank" rel="noopener">Warner Chappell Music, Inc. v. Nealy</a><div class="m"><span class="date">2024-05-09</span><span class="src">Supreme Court of the United States</span></div><p class="sum">PRELIMINARY PRINT Volume 601 U. S. Part 2 Pages 366–376 OFFICIAL REPORTS OF THE SUPREME COURT May 9, 2024 Page Proof Pending Publication REBECCA A. WOMELDORF reporter of decisions NOTICE: This preliminary print is subjec…</p></li><li><a href="https://www.courtlistener.com/opinion/8510467/arias-v-universal-music-group/" target="_blank" rel="noopener">Arias v. Universal Music Group</a><div class="m"><span class="date">2022-11-10</span><span class="src">District Court, District of Columbia</span></div><p class="sum">UNITED STATES DISTRICT COURT FOR THE DISTRICT OF COLUMBIA _________________________________________ ) STEVEN LEONEL ARIAS, ) ) Plaintiff, ) ) v. ) ) Case No. 21-cv-02551 (APM) UNIVERSAL MUSIC GROUP…</p></li><li><a href="https://www.courtlistener.com/opinion/8246883/abkco-music-inc-v-sagan/" target="_blank" rel="noopener">ABKCO Music, Inc. v. Sagan</a><div class="m"><span class="date">2022-10-06</span><span class="src">Court of Appeals for the Second Circuit</span></div><p class="sum">20-3816 ABKCO Music, Inc. v. Sagan 1 UNITED STATES COURT OF APPEALS 2 FOR THE SECOND CIRCUIT 3 ____________________ 4 5 August Term, 2021 6 7 (Argued: March 14, 2022 Decided: October 6, 2022) 8 9 Docket Nos. 20-3816(L),…</p></li></ul></div></div>
+          <div class="cols"><div class="col"><h3>📰 新聞（中・英）</h3><ul class="feed"><li><a href="https://news.google.com/rss/articles/CBMiqwFBVV95cUxOempVQWt4a0lWc3U3NGIwNkFPbTQyMUJKNVBsOE1BTm10OTgtTm80VW9ITWROa2Rwal9LVWc5MHpORU1WRVVqY20xd2twUW1KNnRkdTExcnRYbElrMXRjdExrODN5MG52TC1EM2J1U283RWJYdjFtcmhFSlVsMlJzVXYyV09xaFRMNmV1X2lwWkxubERGQ0p2MzlZSmVadHN2eWxHRFQ4U1RYX1XSAbIBQVVfeXFMTzJXR21BakF6c1g4aktQVEdSRm5uSmVPRG5hUElvYzZfRFdndDNQcXN4OFF3bnJyR0tmQVI5VGxxWUx4UENCYW9DTmwtZ1h1RXJ3aWpiTG9nSlpSa29SekV0eWV6cUFkTTVJNWRJS0tJbV9uN2FFb0c3NnFzZWh6QndPaHRrZDZvRUR5anB0LVVFeTdXYk9yMVhfaHJvX3huM2FWdVd5SlBFd0tFbHl1Ml9YUQ?oc=5" target="_blank" rel="noopener">Can an AI platform hold a music copyright? - BusinessLine</a><div class="m"><span class="new">🆕 NEW</span><span class="date">2026-06-16</span><span class="src">BusinessLine</span></div></li><li><a href="https://news.google.com/rss/articles/CBMijgFBVV95cUxOU3l1U3FQOXJkdWpBRXhwYTRxNmNid1o5TWlOYnpMUmRMdVcwakR1T2dHVUR0MVJyNWVUQ2lhSFB5RHdtQUxNemF5empJcG5xQ0h0amRIdWVhZnlUSC0taElwZ0ozNHEtbEJzcmYxVjVCT2N4NVhxSGtmd2RhOF9qWUoyWUtHSkFwSUc5Z0FB?oc=5" target="_blank" rel="noopener">RBW Launches 30 Billion Won K-Pop Music IP Project - 조선일보</a><div class="m"><span class="new">🆕 NEW</span><span class="date">2026-06-15</span><span class="src">조선일보</span></div></li><li><a href="https://news.google.com/rss/articles/CBMickFVX3lxTE0yLTh5YlR5MVJILUdFZ29MY2d5NnJ3R1B1R1B3Q3NtZ1A1R08ta1ZfMEV5bWNZR3oxVkZtQ1paMTc5RC1uaVpUdnhYeGNWWGZBU3dpSlNwVXpOdld6U1Nfeko3a2RvRjJGeU1FLVZueDBRUQ?oc=5" target="_blank" rel="noopener">AI 作曲無版權？日本 JASRAC 裁定純 AI 音樂屬公共領域 - unwire PRO</a><div class="m"><span class="new">🆕 NEW</span><span class="date">2026-06-15</span><span class="src">unwire PRO</span></div></li><li><a href="https://news.google.com/rss/articles/CBMidEFVX3lxTE1hSEZoVEVwaXdQeXltTEx0a0I4RG9ncFo5ZjVuSXJ1c2VFMmI5WHNpRWdzNW5rVzhFUzVVRG1xa05TNG5MV0dLcjdaLWxXdzBtUFhmS1JlT3BPS05BN3dpZWtNZlVidVUzRFNLRmpzTHZPTWFF?oc=5" target="_blank" rel="noopener">AI生成音樂享有著作權保障嗎？日本音樂著作權協會：不行 - LINE TODAY</a><div class="m"><span class="new">🆕 NEW</span><span class="date">2026-06-13</span><span class="src">LINE TODAY</span></div></li><li><a href="https://news.google.com/rss/articles/CBMitAFBVV95cUxPc0NaT0JqSmJnWVRFOGt5ZWFlTXg5YjlUVnRHdEtiQ2tTbmpFQTJoWWI1Ulo5ZmJWeGU0SEF3STR3UUI1WVdEbU9HUHBpSlJKZlAyVmljOUJDMHlqTGRsNnRyclYzQkI2WE9ZRmtTNlduVGpVRWtuQ1JNNGdKYXNJN0ZWeVpKemZsdWp4VjhDbmdleUstNGFlVHlYX1BWQjNSSnJKMFZ5dGxST2Z0VXp5QjRRUV8?oc=5" target="_blank" rel="noopener">Blueface&#x27;s Music Royalties Seized to Pay Soulja Boy&#x27;s Baby Mama $123,000 After Defamation Judgment - Complex</a><div class="m"><span class="new">🆕 NEW</span><span class="date">2026-06-12</span><span class="src">Complex</span></div></li><li><a href="https://news.google.com/rss/articles/CBMisgFBVV95cUxNSmo1cWhINzVvYmd0VUFrSmdGUl9JQl9FaGV1V3dZWEJFUDhzQkhONnR0UktJZGN6NXNrNHh4eHdoVGtwaVAtMTJhOEEtamV6M01qeGEwVFZXWW5xdUhoZ2RtR1dGR1lha0hSamxLMzZDM05UeWhNZGUyZnV4QWNBSEdZSGM5SkxWZkVlcmh4RURCYXZkRTJQN3hkbEU3VldhUHEzVFk1X3RTYWxoQ3FuSm1R?oc=5" target="_blank" rel="noopener">Blueface’s Music Royalties Redirected To Soulja Boy’s Ex Over Defamation Judgment - Hip-Hop Wired</a><div class="m"><span class="new">🆕 NEW</span><span class="date">2026-06-12</span><span class="src">Hip-Hop Wired</span></div></li></ul></div><div class="col"><h3>📚 學術論文</h3><p class="empty">今日無新項目</p></div><div class="col"><h3>⚖️ 美國判決</h3><ul class="feed"><li><a href="https://www.courtlistener.com/opinion/10814782/cox-communications-inc-v-sony-music-entertainment/" target="_blank" rel="noopener">Cox Communications, Inc. v. Sony Music Entertainment</a><div class="m"><span class="date">2026-03-25</span><span class="src">Supreme Court of the United States</span></div><p class="sum">(Slip Opinion) OCTOBER TERM, 2025 1 Syllabus NOTE: Where it is feasible, a syllabus (headnote) will be released, as is being done in connection with this case, at the time the opinion is issued. The syllabus constitutes…</p></li><li><a href="https://www.courtlistener.com/opinion/10600095/warner-chappell-music-inc-v-nealy/" target="_blank" rel="noopener">Warner Chappell Music, Inc. v. Nealy</a><div class="m"><span class="date">2024-05-09</span><span class="src">Supreme Court of the United States</span></div><p class="sum">PRELIMINARY PRINT Volume 601 U. S. Part 2 Pages 366–376 OFFICIAL REPORTS OF THE SUPREME COURT May 9, 2024 Page Proof Pending Publication REBECCA A. WOMELDORF reporter of decisions NOTICE: This preliminary print is subjec…</p></li><li><a href="https://www.courtlistener.com/opinion/8510467/arias-v-universal-music-group/" target="_blank" rel="noopener">Arias v. Universal Music Group</a><div class="m"><span class="date">2022-11-10</span><span class="src">District Court, District of Columbia</span></div><p class="sum">UNITED STATES DISTRICT COURT FOR THE DISTRICT OF COLUMBIA _________________________________________ ) STEVEN LEONEL ARIAS, ) ) Plaintiff, ) ) v. ) ) Case No. 21-cv-02551 (APM) UNIVERSAL MUSIC GROUP…</p></li><li><a href="https://www.courtlistener.com/opinion/8246883/abkco-music-inc-v-sagan/" target="_blank" rel="noopener">ABKCO Music, Inc. v. Sagan</a><div class="m"><span class="date">2022-10-06</span><span class="src">Court of Appeals for the Second Circuit</span></div><p class="sum">20-3816 ABKCO Music, Inc. v. Sagan 1 UNITED STATES COURT OF APPEALS 2 FOR THE SECOND CIRCUIT 3 ____________________ 4 5 August Term, 2021 6 7 (Argued: March 14, 2022 Decided: October 6, 2022) 8 9 Docket Nos. 20-3816(L),…</p></li></ul></div></div>
         </section>
 
         <section class="topic">

diff --git a/report.py b/report.py
@@ -58,7 +58,7 @@ def _judgments_block(t):
 
 def _music_charts(t):
     c = t.get("charts")
-    if not c:
+    if not c or not c.get("index_table"):
         return ""
     tbl = ""
     for r in c.get("index_table", []):
@@ -67,18 +67,12 @@ def _music_charts(t):
         last = f'{r["last"]:.2f}' if r.get("last") is not None else "—"
         tbl += (f'<tr><td>{html.escape(r["name"])}<span class="src"> {html.escape(r["ticker"])}</span></td>'
                 f'<td>{last}</td><td class="{cls}">{chg:+.1f}%</td></tr>')
-    ref = c.get("ref", {})
-    stats = "".join(f"<li>{html.escape(s)}</li>" for s in ref.get("stats", []))
     return f"""
       <div class="charts">
-        <h3>📈 音樂 IP 金融指標 <span class="src">（WIPO 報告風格）</span></h3>
+        <h3>📈 音樂 IP 金融指數 <span class="src">（Reservoir／Warner／Universal／Spotify，rebased 100）</span></h3>
         <div class="cgrid">
-          <div><img src="assets/music_index.png" alt="index" loading="lazy">
-            <table class="ctab"><tr><th>標的</th><th>價格</th><th>近1年</th></tr>{tbl}</table></div>
-          <div><img src="assets/music_volume.png" alt="volume" loading="lazy">
-            <div class="ref"><b>WIPO 官方統計參考</b><ul>{stats}</ul>
-            <a href="{html.escape(ref.get('url','#'))}" target="_blank" rel="noopener">{html.escape(ref.get('source',''))}</a></div>
-          </div>
+          <div><img src="assets/music_index.png" alt="index" loading="lazy"></div>
+          <div><table class="ctab"><tr><th>標的</th><th>價格</th><th>近1年</th></tr>{tbl}</table></div>
         </div>
       </div>"""
 
@@ -111,6 +105,12 @@ def build_html(date_str, topics, generated_at):
   * {{ box-sizing:border-box; }}
   body {{ font-family:-apple-system,"PingFang TC","Microsoft JhengHei",sans-serif;
          margin:0; background:#0f1115; color:#e6e6e6; }}
+  .topnav {{ display:flex; gap:6px; background:#0b0d12; padding:8px 16px;
+            border-bottom:1px solid #262b36; position:sticky; top:0; z-index:10; }}
+  .topnav a {{ color:#9aa4b2; text-decoration:none; font-size:14px; font-weight:600;
+              padding:7px 16px; border-radius:8px; }}
+  .topnav a:hover {{ background:#161922; color:#e6e6e6; }}
+  .topnav a.active {{ background:#1f2e3a; color:#7fb5ff; }}
   header {{ padding:24px 20px; background:#161922; border-bottom:1px solid #262b36; }}
   header h1 {{ margin:0; font-size:22px; }}
   header p {{ margin:6px 0 0; color:#9aa4b2; font-size:13px; }}
@@ -173,6 +173,10 @@ def build_html(date_str, topics, generated_at):
 </style>
 </head>
 <body>
+<nav class="topnav">
+  <a href="https://elainechi-art.github.io/taiwan-stock-dashboard/">📈 股市儀表板</a>
+  <a class="active" href="https://elainechi-art.github.io/research-radar/">📡 研究雷達</a>
+</nav>
 <header>
   <h1>📡 研究雷達 · 台灣法律 / 智財 / 區塊鏈 / AI</h1>
   <p>資料日期：{date_str}　·　產生時間：{generated_at}　·　每日自動更新　·　🆕 = 近 7 天新資料</p>

diff --git a/music_charts.py b/music_charts.py
@@ -119,17 +119,12 @@ def update_news_volume():
 
 
 def build():
-    out = {"ref": WIPO_REF}
+    out = {}
     try:
         out["index_table"] = build_index_chart()
     except Exception as e:
         print(f"指數圖失敗：{e}")
         out["index_table"] = []
-    try:
-        out["volume"] = update_news_volume()
-    except Exception as e:
-        print(f"新聞熱度圖失敗：{e}")
-        out["volume"] = {}
     return out
 
 